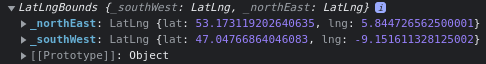
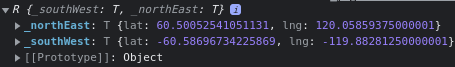
update readme embed section

diff --git a/README.md b/README.md
@@ -48,9 +48,9 @@ If you would like the map the initialize on a specific location there are a coup
 
 1. Visit [btcmap.org/map](https://btcmap.org/map) and zoom the map to your desired location
 2. Click anywhere on the map and open up the `console` in `DevTools` for your browser
-3. Open the `LatLngBounds` object, it will look like this:
+3. Open the `R` object, it will look like this:
    ![Example object](/static/images/object-example.png 'Example object')
-4. Add `URLSearchParams` to the `src` attribute of your `iframe` populating the `lat=` and `long=` fields with the data from the `LatLngBounds` object as follows:
+4. Add `URLSearchParams` to the `src` attribute of your `iframe` populating the `lat=` and `long=` fields with the data from the `R` object as follows:
 
    `?lat=53.173119202640635&long=5.844726562500001&lat=47.04766864046083&long=-9.151611328125002`
 
